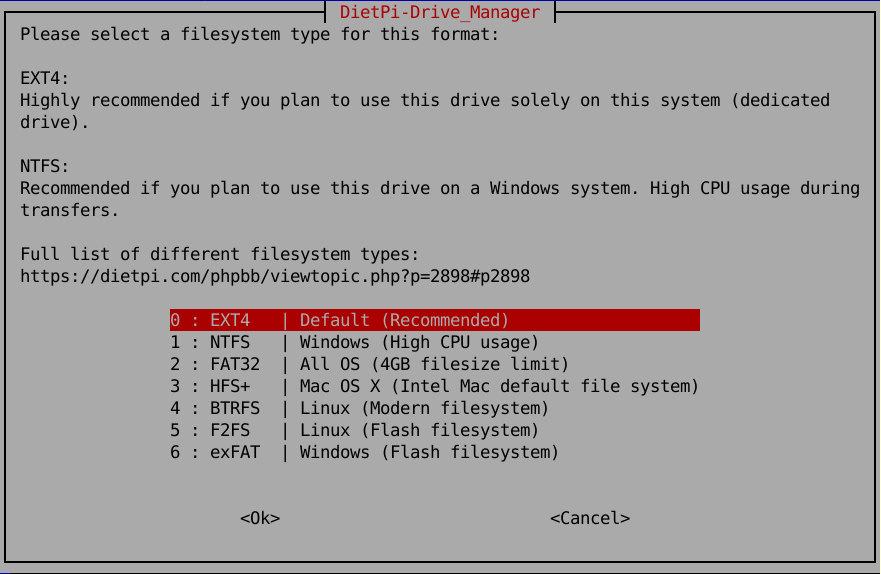
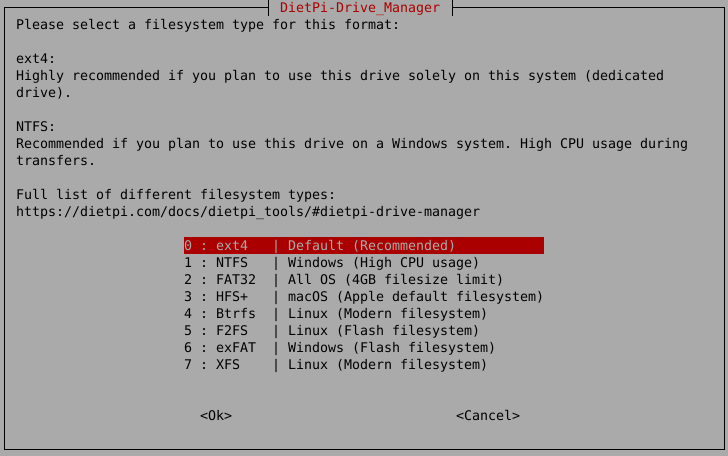
XFS file system description added
See issue #395

diff --git a/docs/dietpi_tools.md b/docs/dietpi_tools.md
@@ -225,7 +225,7 @@ DietPi-DDNS is a generic Dynamic DNS (DDNS) client. It can be used to setup a cr
 
     - If no argument is given, the interactive menu is started.
     - Use `dietpi-ddns <options> apply <provider>` to apply a cron job for the given provider and use the following options set details:
-        - `<provider>` is either the name of a supported provider, or any custom update URL. 
+        - `<provider>` is either the name of a supported provider, or any custom update URL.
         - Use `-d <domains>` to add one or a comma-separated list of multiple domains, which should point to the public IP address of this system.
         - Use `-u <username>` to set a username or identifier. This is not required for all providers, in case of a custom provider, it is used as username for HTTP authentication.
         - Use `-p <password>` to set a password or token. This is not required for all providers, in case of a custom provider, it is used as username for HTTP authentication.
@@ -401,19 +401,28 @@ Run `dietpi-drive_manager`.
 
     - `HFS+`  
       Recommended for Mac owners.  
-      `+` Mac OS file system
+      `+` Mac OS file system  
+      `-` Not compatible on a Windows system
 
     - `BTRFS`  
       A modern Linux file system.  
-      `+` <https://github.com/Fourdee/DietPi/issues/271#issuecomment-247173250>
+      `+` <https://github.com/Fourdee/DietPi/issues/271#issuecomment-247173250>  
+      `-` Not compatible on a Windows system
 
     - `F2FS`  
       Linux file system designed for flash/NAND based drives.  
-      `+` Flash-Friendly File System: <https://en.wikipedia.org/wiki/F2FS>
+      `+` Flash-Friendly File System: <https://en.wikipedia.org/wiki/F2FS>  
+      `-` Not compatible on a Windows system
 
     - `exFAT`  
-      Windows file system, intended for external drives, e.g. USB flash drives or SD cards  
-      `+` Flash-Friendly File System: <https://en.m.wikipedia.org/wiki/ExFAT>
+      Windows file system, intended for external drives, e.g. USB flash drives or SD cards.  
+      `+` Flash-Friendly File System: <https://en.m.wikipedia.org/wiki/ExFAT>  
+      `+` Compatible on a Windows system  
+
+    - `XFS`  
+      A modern Linux file system.  
+      `+` Well accepted for large files (typically in a file server use)  
+      `-` Not compatible on a Windows system
 
 === "Move DietPi system to a larger SD card"
 
